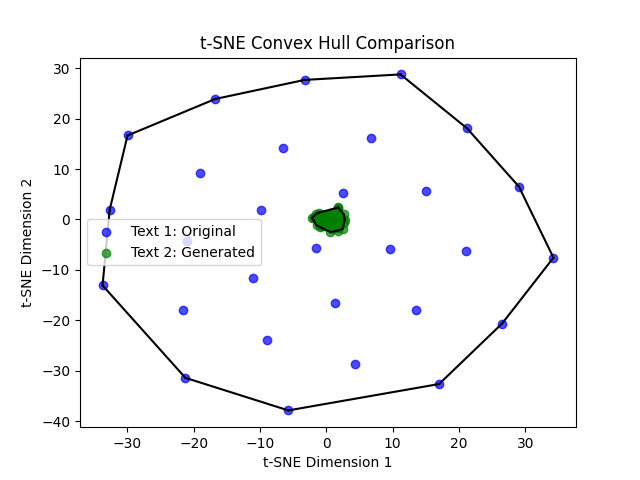
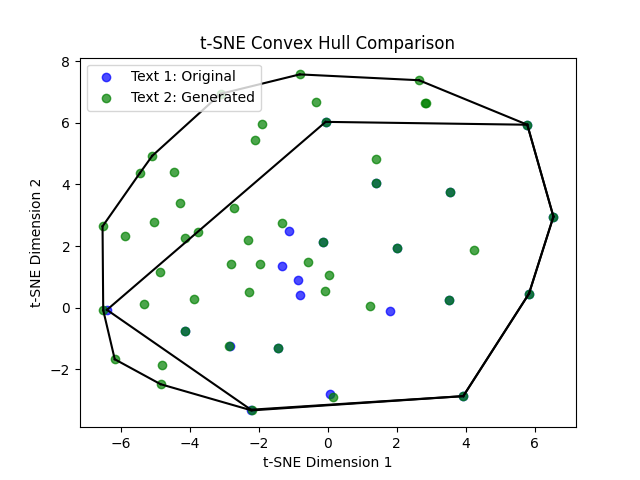
a

diff --git a/compare_texts.py b/compare_texts.py
@@ -21,6 +21,7 @@ class CompareText:
             print(f"Error: File {file_path} not accessible or does not exist.")
             return ""
 
+
     def plot_convex_hull_comparison(self, file_path1, file_path2):
         text1 = self.read_text(file_path1)
         embeddings1 = self.model_llm.get_embeddings_from_input(text1)[0]
@@ -28,37 +29,35 @@ class CompareText:
         text2 = self.read_text(file_path2)
         embeddings2 = self.model_llm.get_embeddings_from_input(text2)[0]
 
-        # Determine suitable perplexity values
-        perplexity1 = min(30, len(embeddings1) - 1)
-        perplexity2 = min(30, len(embeddings2) - 1)
+        # Combine embeddings for t-SNE
+        combined_embeddings = np.vstack((embeddings1, embeddings2))
 
+        # Apply t-SNE to the combined embeddings
         tsne = TSNE(n_components=2, random_state=0)
+        reduced_embeddings_combined = tsne.fit_transform(combined_embeddings)
 
-        # Apply t-SNE with adjusted perplexity for each set of embeddings
-        reduced_embeddings1 = tsne.set_params(perplexity=perplexity1).fit_transform(embeddings1)
-        reduced_embeddings2 = tsne.set_params(perplexity=perplexity2).fit_transform(embeddings2)
-
-        # Compute the convex hulls
+        # Split the embeddings back into their respective sets
+        reduced_embeddings1 = reduced_embeddings_combined[:len(embeddings1)]
+        reduced_embeddings2 = reduced_embeddings_combined[len(embeddings1):]
+        # Compute the convex hulls and plot as before
         hull1 = ConvexHull(reduced_embeddings1)
         hull2 = ConvexHull(reduced_embeddings2)
 
-        # Plot the embeddings and convex hulls
         plt.scatter(reduced_embeddings1[:, 0], reduced_embeddings1[:, 1], alpha=0.7, color='blue', label='Text 1: Original')
         plt.scatter(reduced_embeddings2[:, 0], reduced_embeddings2[:, 1], alpha=0.7, color='green', label='Text 2: Generated')
 
         for simplex in hull1.simplices:
             plt.plot(reduced_embeddings1[simplex, 0], reduced_embeddings1[simplex, 1], 'k-')
-
         for simplex in hull2.simplices:
             plt.plot(reduced_embeddings2[simplex, 0], reduced_embeddings2[simplex, 1], 'k-')
 
-        # Additional plot settings
         plt.title('t-SNE Convex Hull Comparison')
         plt.xlabel('t-SNE Dimension 1')
         plt.ylabel('t-SNE Dimension 2')
         plt.legend()
         plt.savefig('./results/tsne_compare.png')
-        print('plot salvo')
+        print('plot saved')
+
 
     def compare_geometric_metrics(self, file_path1, file_path2):
         text1 = self.read_text(file_path1)
